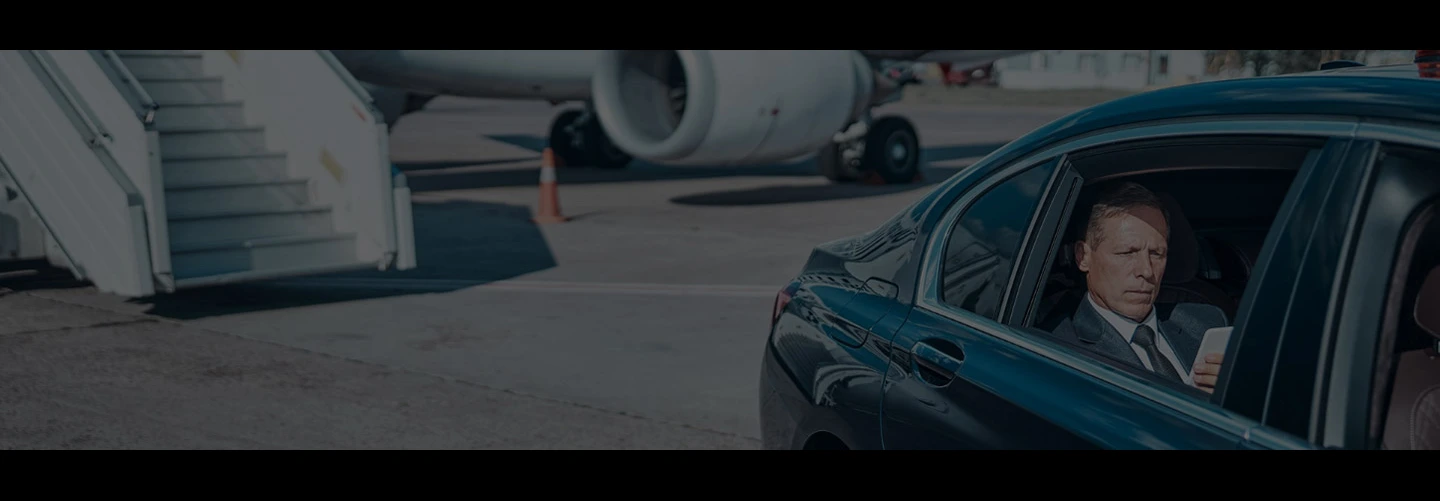
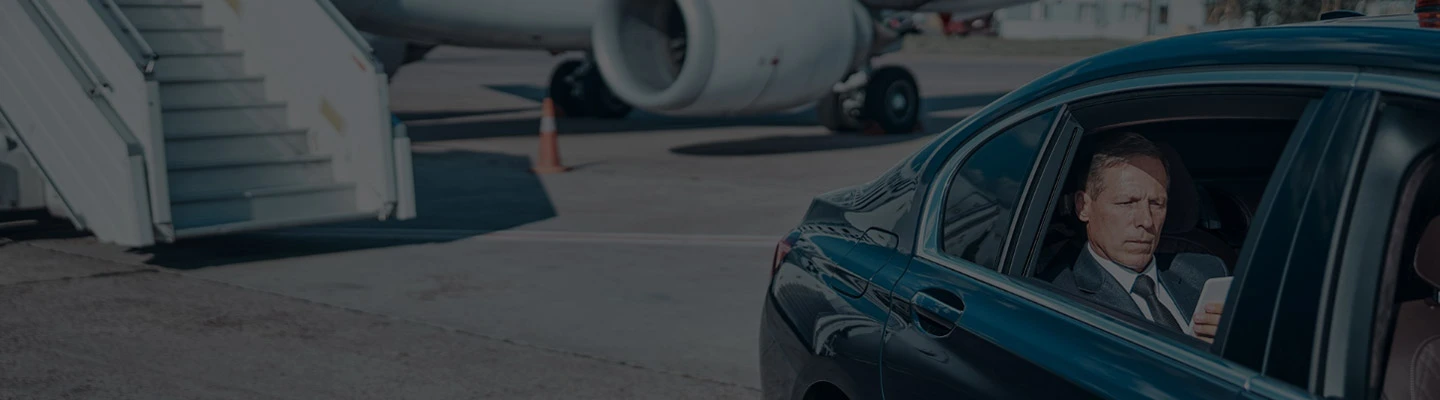
add-no-index-and-change-image-and-remove-space

diff --git a/src/App.jsx b/src/App.jsx
@@ -109,9 +109,13 @@ function App({ initialUrl, hostname }) {
   // console.log(isDevEnvironment,'isDevEnvironment')
   // console.log( typeof window !== 'undefined' && window.location.hostname,'window.location.hostname')
   // console.log(hostname,'hostname')
+  const isPs1Environment =
+    typeof window !== "undefined"
+      ? window.location.hostname === "ps1.localists.com"
+      : hostname === "ps1.localists.com";
   return (
     <>
-      {isDevEnvironment && (
+      {(isDevEnvironment || isPs1Environment) && (
         <Helmet>
           <meta name="robots" content="noindex" />
         </Helmet>

diff --git a/src/component/level3/Airport/AirportServices.jsx b/src/component/level3/Airport/AirportServices.jsx
@@ -61,7 +61,7 @@ function AirportServices() {
         title={TRANSPORT_CONFIG_TOP["Airport Transfers"]?.ctaText}
       />
       <Frequently
-        faqTitle={TRANSPORT_CONFIG_TOP["Airport Transfers"]?.faqTitle}
+        // faqTitle={TRANSPORT_CONFIG_TOP["Airport Transfers"]?.faqTitle}
         FrequentlyQuestion={AIRPORT_TRANSFER_FAQ["Airport Transfers"]}
       />
       <AveragePriceTransportServices

diff --git a/src/component/subCategory/workSteps/HowItWorks.module.css b/src/component/subCategory/workSteps/HowItWorks.module.css
@@ -194,7 +194,7 @@
   }
 
   .lineBreak {
-    display: block;
+    display: none;
   }
 }
 
